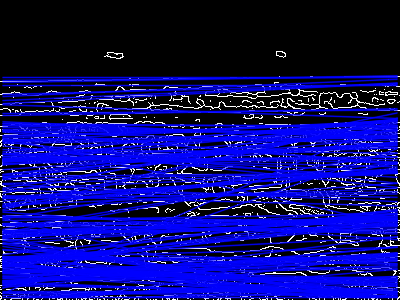
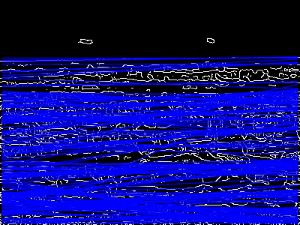
README.md

diff --git a/src/main.cpp b/src/main.cpp
@@ -11,12 +11,14 @@
 #include <opencv2/imgcodecs.hpp>
 #include "LineFinder.hpp"
 #include "Visualizer.hpp"
+#include "Helper.hpp"
 
 int main(int argc, const char * argv[]) {
     
     const std::string imgDir("images/");
     const std::string imgName("test1");
     const std::string imgExt(".jpg");
+    const std::string imgResultDir("images/results/");
     
     std::string imgSrcPath = imgDir + imgName + imgExt;
     cv::Mat image = cv::imread(imgSrcPath, cv::IMREAD_COLOR);
@@ -26,26 +28,29 @@ int main(int argc, const char * argv[]) {
         return -1;
     }
     
+    cv::Size savingSize = fh::getProcessingSize(image, 225);
+    
     fh::show("Original", image);
     
     fh::LineFinder* lineFinder = new fh::LineFinder(&image);
     
-    const std::string imgResultDir("images/results/");
-    
     cv::Mat& standardHough = lineFinder->runStandardHough();
     fh::show("Standard Hough(Left-click for results)", lineFinder->preprocessedImage(), standardHough);
     std::string saveStandardHough = imgResultDir + imgName + "_stdHough.png";
-    fh::save(saveStandardHough, standardHough);
+    fh::save(saveStandardHough, standardHough, savingSize);
     
     cv::Mat& standardLocalHough = lineFinder->runStandardLocalHough();
     fh::show("Standard Local Hough(Left-click for results)", lineFinder->preprocessedImage(), standardLocalHough);
     std::string saveStandardLocalHough = imgResultDir + imgName + "_stdLocalHough.png";
-    fh::save(saveStandardLocalHough, standardLocalHough);
+    fh::save(saveStandardLocalHough, standardLocalHough, savingSize);
     
     cv::Mat& naiveLocalHough = lineFinder->runNaiveLocalHough();
     fh::show("Naive Local Hough(Left-click for results)", lineFinder->preprocessedImage(), naiveLocalHough);
     std::string saveNaiveLocalHough = imgResultDir + imgName + "_naiveLocalHough.png";
-    fh::save(saveNaiveLocalHough, naiveLocalHough);
+    fh::save(saveNaiveLocalHough, naiveLocalHough, savingSize);
+    
+    std::string saveOriginal = imgResultDir + imgName + "_orig.png";
+    fh::save(saveOriginal, image, savingSize);
     
     fh::waitKey();
 

diff --git a/README.md b/README.md
@@ -12,7 +12,7 @@ Look at [```LineFinder::runStandardLocalHough()```](https://github.com/helloworl
 
 Just pull the project, and run it. You may change the input image by fixing the ```main.cpp``` file.
 
-  - If you fail to read the image, please [set your working directory](https://stackoverflow.com/a/11748111/10464503) to the root directory of the project.
+  - If you fail to read the image, please try [setting your working directory](https://stackoverflow.com/a/11748111/10464503) to the root directory of the project.
 
 
 ### Others
@@ -61,7 +61,30 @@ for (int i = 0; i < iterator.count; i++, ++iterator) {
 
 This method is quite simple, but found that it gives a quite acceptable result. Have a look.
 
+#### Numabukuro Station, Tokyo, Japan
+
+| ![Original](images/results/test1_orig.png) | ![Standard Hough](images/results/test1_stdHough.png) | ![Standard Hough + Locality Test](images/results/test1_stdLocalHough.png) |
+|:---:|:---:|:---:|
+| Original | Standard Hough | Standard Hough + Locality Test |
+
+
+#### Pangyo Station, Seong-nam, South Korea
+
+| ![Original](images/results/test21_orig.png) | ![Standard Hough](images/results/test21_stdHough.png) | ![Standard Hough + Locality Test](images/results/test21_stdLocalHough.png) |
+|:---:|:---:|:---:|
+| Original | Standard Hough | Standard Hough + Locality Test |
+
+
+#### Gimpo International Airport(GMP), Seoul, South Korea
+
 | ![Original](images/results/test27_orig.png) | ![Standard Hough](images/results/test27_stdHough.png) | ![Standard Hough + Locality Test](images/results/test27_stdLocalHough.png) |
+|:---:|:---:|:---:|
+| Original | Standard Hough | Standard Hough + Locality Test |
+
+
+#### Uni Murakami, Hakodate, Japan
+
+| ![Original](images/results/test32_orig.png) | ![Standard Hough](images/results/test32_stdHough.png) | ![Standard Hough + Locality Test](images/results/test32_stdLocalHough.png) |
 |:---:|:---:|:---:|
 | Original | Standard Hough | Standard Hough + Locality Test |
 
@@ -76,7 +99,7 @@ Second, it may skip some short lines if the length is smaller than the threshold
 
 Third, it is not that robust to errors. In real world's images, the edge detector usually fails to extract the exact edges. So actual line might look to be broken, or wiggled. This can hinder the line detector's performance.
 
-Fourth, there are very many parameters to calibrate. Including pre-processing, 
+Fourth, there are very many parameters to calibrate. Including pre-processing, there are 9 parameters that can be controlled in this project.
 
 
 ### Pre-processing
@@ -89,6 +112,11 @@ It is very important to pre-process the image so that the edge detector works we
   4. Extract edge using Canny Edge Detector
   
 All of the pre-processing can be done very easily by OpenCV.
+
+
+## Contributions
+
+Please do not hesitate to comment on my code, or give a pull request! By the way, the [license is here](LICENSE).
 
 
 ## External Dependencies Used
